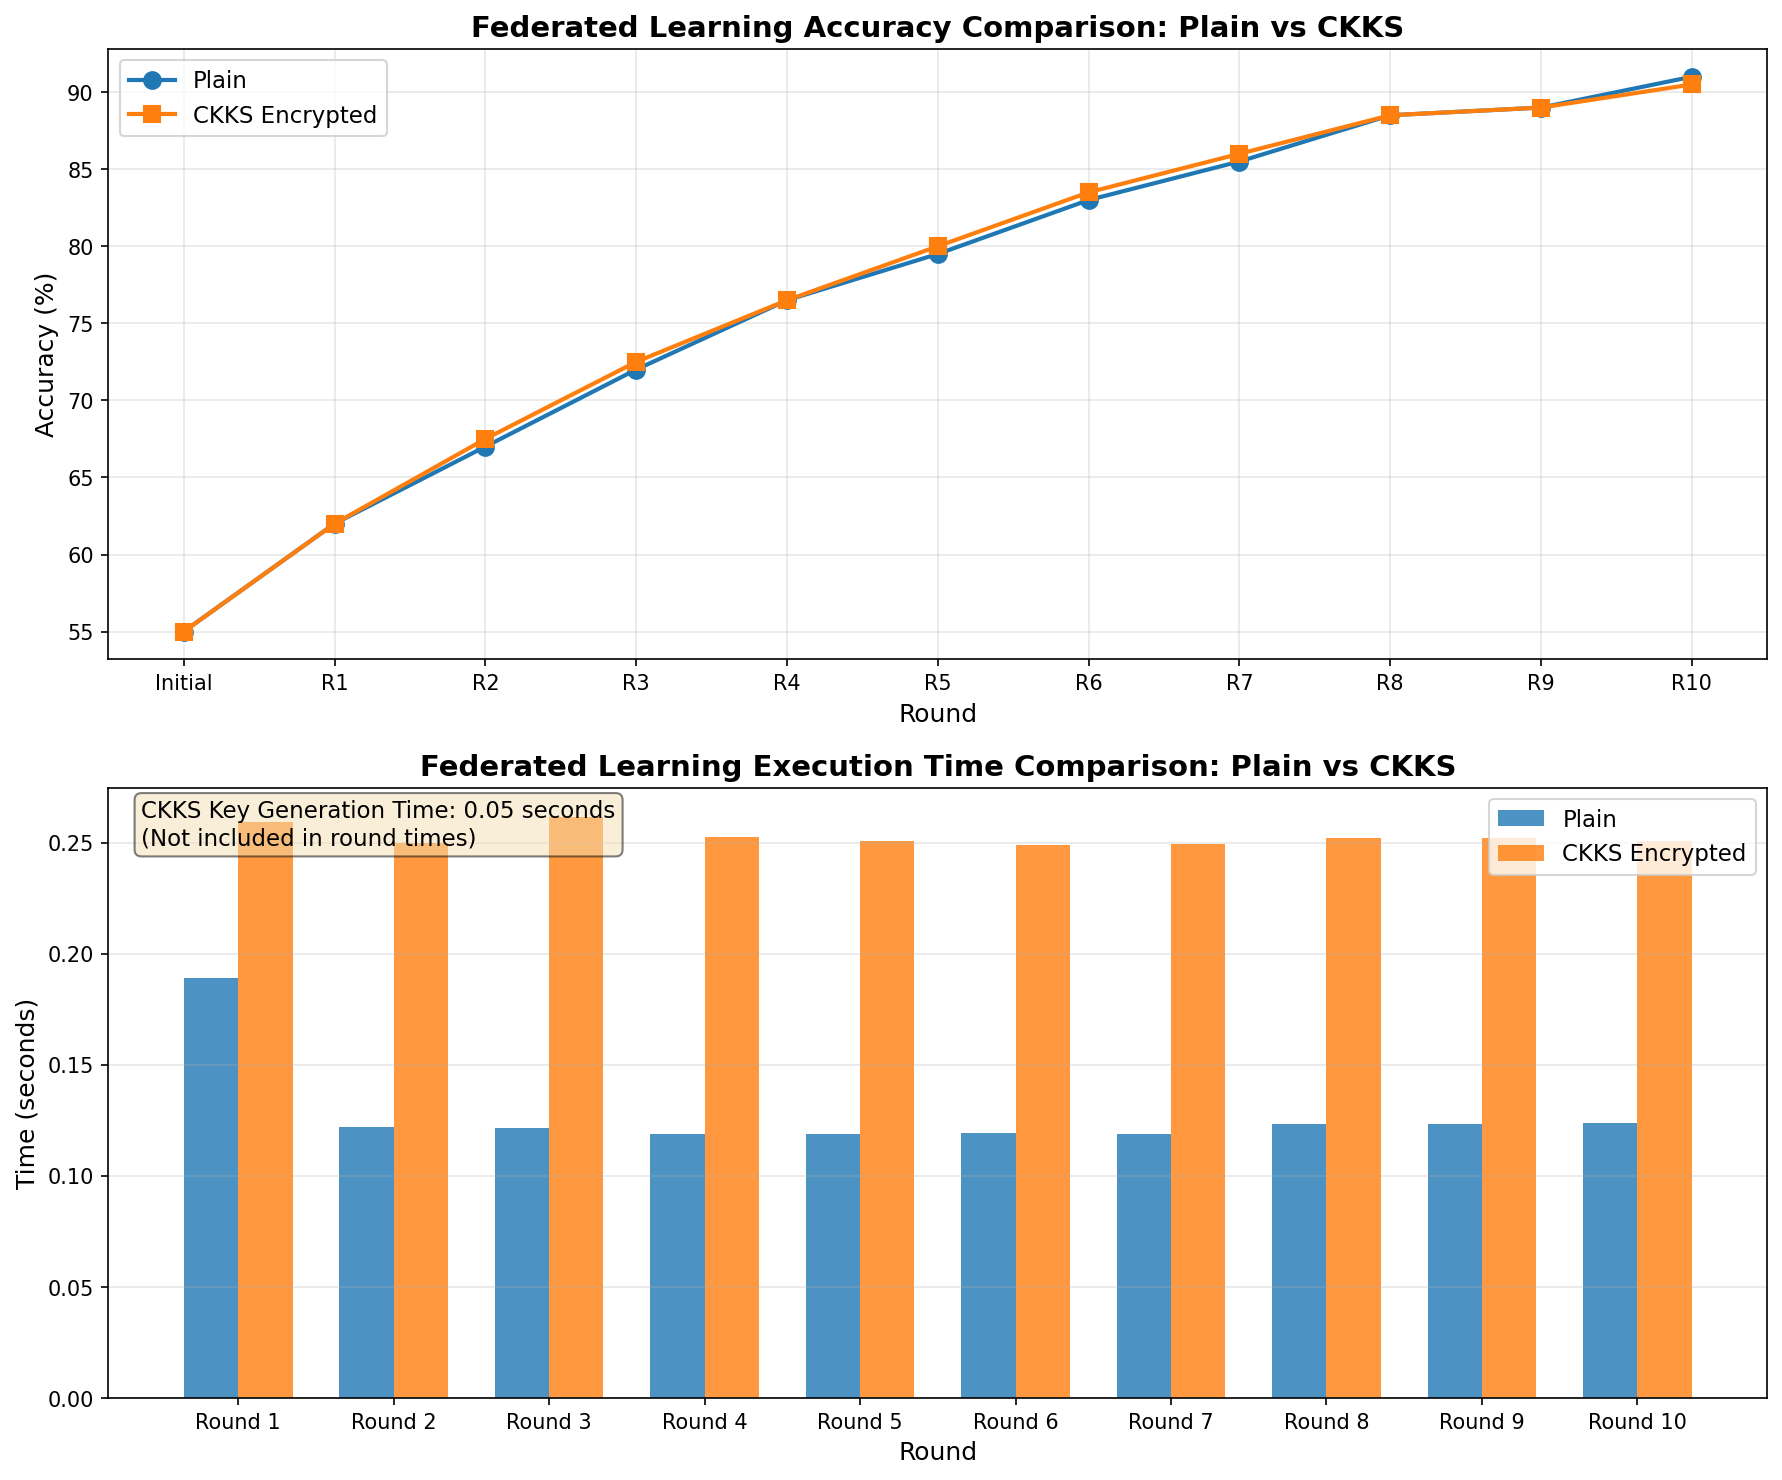
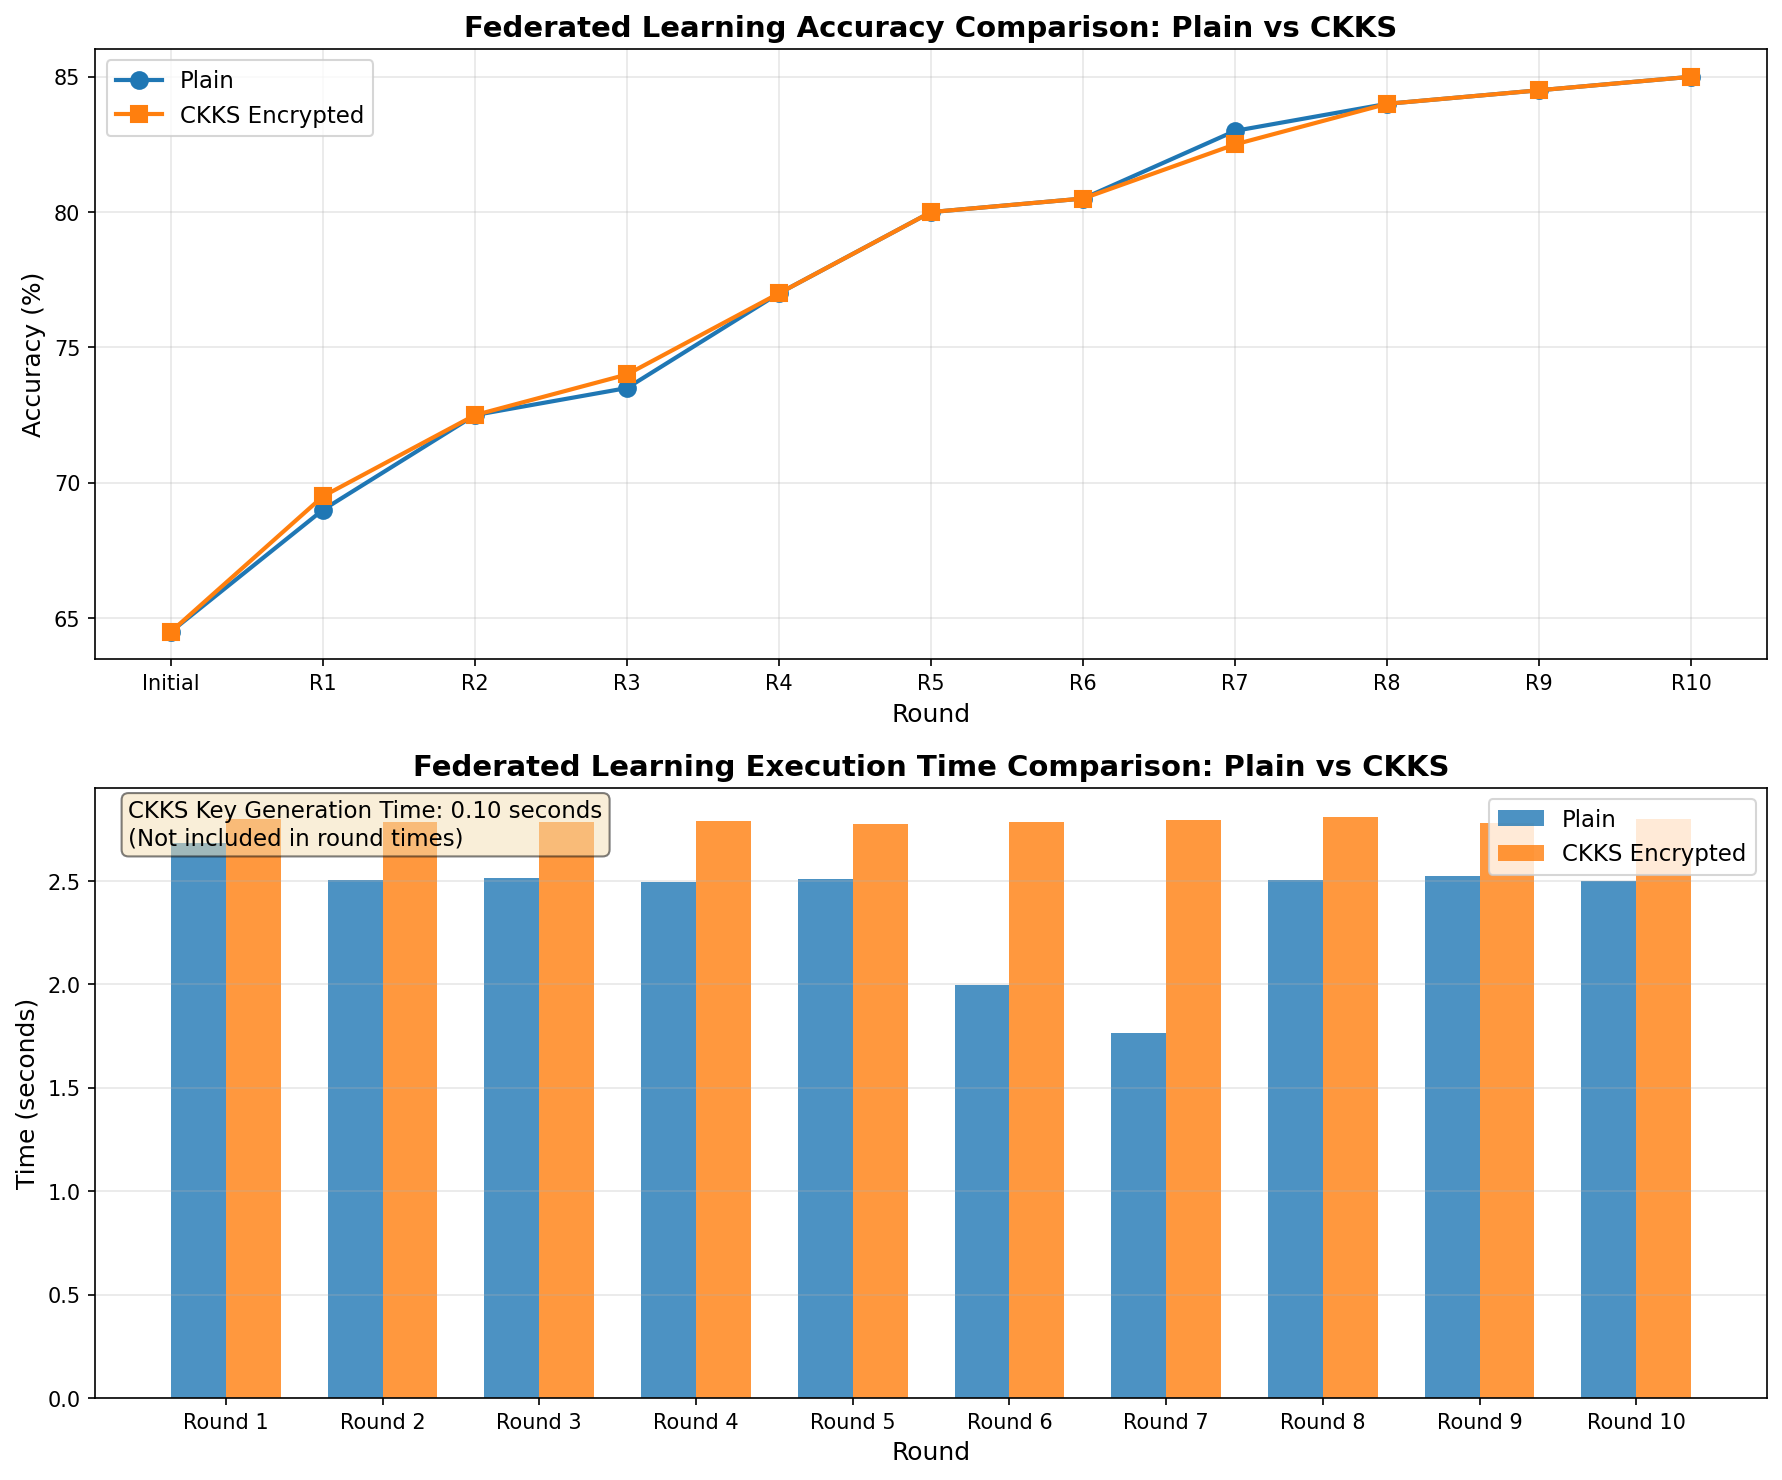
variable input size

diff --git a/federated.py b/federated.py
@@ -22,6 +22,7 @@ from math import log2, ceil
 import matplotlib.pyplot as plt
 import matplotlib
 matplotlib.use('Agg')  # GUIなし環境対応
+import argparse
 
 # [OPENFHE-CKKS] 追加
 from openfhe import *
@@ -198,10 +199,19 @@ class NeuralNetwork(nn.Module):
     def __init__(self, input_size=3, output_size=2):
         super(NeuralNetwork, self).__init__()
         self.fc = nn.Linear(input_size, output_size)
+        # 初期重みを固定値で設定（次元に対応）
         with torch.no_grad():
-            self.fc.weight.data = torch.tensor([[0.1, 0.2, 0.3],
-                                                [0.4, 0.5, 0.6]], dtype=torch.float32)
-            self.fc.bias.data = torch.tensor([0.1, 0.2], dtype=torch.float32)
+            # 重み行列: output_size x input_size
+            weight_init = torch.zeros(output_size, input_size, dtype=torch.float32)
+            for i in range(output_size):
+                for j in range(input_size):
+                    weight_init[i, j] = 0.1 * (i * input_size + j + 1)
+            self.fc.weight.data = weight_init
+            # バイアス: output_size
+            bias_init = torch.zeros(output_size, dtype=torch.float32)
+            for i in range(output_size):
+                bias_init[i] = 0.1 * (i + 1)
+            self.fc.bias.data = bias_init
 
     def forward(self, x):
         return self.fc(x)
@@ -284,15 +294,25 @@ class LocalTrainer:
         self.model.load_state_dict(weights)
 
 
-def create_simple_data(batch_size, num_samples=100, seed=None):
+def create_simple_data(batch_size, num_samples=100, input_size=3, seed=None):
     """
     線形分離可能な簡易データを生成（説明・検証用）
-    ルール: x1 + x2 - x3 > 0 なら 1、それ以外は 0
+    ルール: x_1 - x_2 + x_3 - x_4 + ... ± x_n > 0 なら 1、それ以外は 0
+    奇数インデックスは+、偶数インデックスは-の符号を持つ
     """
     if seed is not None:
         np.random.seed(seed)
-    features = np.random.randn(num_samples, 3).astype(np.float32)
-    labels = ((features[:, 0] + features[:, 1] - features[:, 2]) > 0).astype(np.int64)
+    features = np.random.randn(num_samples, input_size).astype(np.float32)
+
+    # 交互に符号を変えて和を計算: x_1 - x_2 + x_3 - x_4 + ...
+    weighted_sum = np.zeros(num_samples, dtype=np.float32)
+    for i in range(input_size):
+        if i % 2 == 0:  # 偶数インデックス(0,2,4,...) は +
+            weighted_sum += features[:, i]
+        else:  # 奇数インデックス(1,3,5,...) は -
+            weighted_sum -= features[:, i]
+
+    labels = (weighted_sum > 0).astype(np.int64)
     dataset = CustomDataset(features, labels)
     return DataLoader(dataset, batch_size=batch_size, shuffle=True)
 
@@ -304,12 +324,12 @@ class Client:
       - 学習前後の精度を出力
       - 学習後の重みをサーバへ返す
     """
-    def __init__(self, client_id, data_seed=None):
+    def __init__(self, client_id, input_size=3, output_size=2, data_seed=None):
         self.client_id = client_id
         self.device = torch.device('cuda' if torch.cuda.is_available() else 'cpu')
-        self.model = NeuralNetwork(input_size=3, output_size=2).to(self.device)
-        self.train_loader = create_simple_data(batch_size=16, num_samples=100, seed=data_seed)
-        self.test_loader = create_simple_data(batch_size=16, num_samples=50, seed=data_seed+1000 if data_seed else None)
+        self.model = NeuralNetwork(input_size=input_size, output_size=output_size).to(self.device)
+        self.train_loader = create_simple_data(batch_size=16, num_samples=100, input_size=input_size, seed=data_seed)
+        self.test_loader = create_simple_data(batch_size=16, num_samples=50, input_size=input_size, seed=data_seed+1000 if data_seed else None)
         self.optimizer = optim.SGD(self.model.parameters(), lr=0.01)  # 低LRで安定化
         self.criterion = nn.CrossEntropyLoss()
         self.trainer = LocalTrainer(self.model, self.train_loader, self.optimizer, self.criterion, self.device)
@@ -341,10 +361,10 @@ class FHEServer:
       - グローバルモデルの保持と評価
       - CKKS 集約（FHEModelAggregator: CKKS 版）を呼び出し
     """
-    def __init__(self, num_clients=5):
+    def __init__(self, num_clients=5, input_size=3, output_size=2):
         self.num_clients = num_clients
         self.device = torch.device('cuda' if torch.cuda.is_available() else 'cpu')
-        self.global_model = NeuralNetwork(input_size=3, output_size=2).to(self.device)
+        self.global_model = NeuralNetwork(input_size=input_size, output_size=output_size).to(self.device)
 
         # [REPLACED WITH OPENFHE-CKKS] ここで CKKS 版の Aggregator を使用
         self.fhe_aggregator = FHEModelAggregator(
@@ -354,7 +374,7 @@ class FHEServer:
             max_value=50        # 同上
         )
 
-        self.test_loader = create_simple_data(batch_size=32, num_samples=200, seed=9999)
+        self.test_loader = create_simple_data(batch_size=32, num_samples=200, input_size=input_size, seed=9999)
         self.criterion = nn.CrossEntropyLoss()
 
     def evaluate_global_model(self):
@@ -402,11 +422,11 @@ class PlainServer:
       - グローバルモデルの保持と評価
       - 平文でのモデル集約（単純平均）
     """
-    def __init__(self, num_clients=5):
+    def __init__(self, num_clients=5, input_size=3, output_size=2):
         self.num_clients = num_clients
         self.device = torch.device('cuda' if torch.cuda.is_available() else 'cpu')
-        self.global_model = NeuralNetwork(input_size=3, output_size=2).to(self.device)
-        self.test_loader = create_simple_data(batch_size=32, num_samples=200, seed=9999)
+        self.global_model = NeuralNetwork(input_size=input_size, output_size=output_size).to(self.device)
+        self.test_loader = create_simple_data(batch_size=32, num_samples=200, input_size=input_size, seed=9999)
         self.criterion = nn.CrossEntropyLoss()
 
     def evaluate_global_model(self):
@@ -454,12 +474,13 @@ class PlainServer:
 # =========================================================
 # 比較実験関数
 # =========================================================
-def run_federated_learning_comparison(num_clients=10, num_rounds=10):
+def run_federated_learning_comparison(num_clients=10, num_rounds=10, input_size=3, output_size=2):
     """
     平文とCKKS暗号化の連合学習を実行し、精度と時間を比較
     """
     print("="*80)
     print("🔬 FEDERATED LEARNING COMPARISON: Plain vs CKKS Encrypted")
+    print(f"   Input Size: {input_size}, Output Size: {output_size}")
     print("="*80)
 
     # 結果格納用
@@ -475,8 +496,8 @@ def run_federated_learning_comparison(num_clients=10, num_rounds=10):
     print("📊 PLAIN FEDERATED LEARNING")
     print("="*80)
 
-    plain_server = PlainServer(num_clients=num_clients)
-    plain_clients = [Client(client_id=i+1, data_seed=i*100) for i in range(num_clients)]
+    plain_server = PlainServer(num_clients=num_clients, input_size=input_size, output_size=output_size)
+    plain_clients = [Client(client_id=i+1, input_size=input_size, output_size=output_size, data_seed=i*100) for i in range(num_clients)]
 
     print("\nInitial Global Model Evaluation (Plain):")
     initial_accuracy_plain, _ = plain_server.evaluate_global_model()
@@ -520,14 +541,14 @@ def run_federated_learning_comparison(num_clients=10, num_rounds=10):
 
     # 鍵生成時間を計測
     key_gen_start = time.time()
-    ckks_server = FHEServer(num_clients=num_clients)
+    ckks_server = FHEServer(num_clients=num_clients, input_size=input_size, output_size=output_size)
     key_gen_end = time.time()
     key_gen_time = key_gen_end - key_gen_start
     results['ckks']['key_gen_time'] = key_gen_time
 
     print(f"🔑 Key generation time: {key_gen_time:.2f} seconds")
 
-    ckks_clients = [Client(client_id=i+1, data_seed=i*100) for i in range(num_clients)]
+    ckks_clients = [Client(client_id=i+1, input_size=input_size, output_size=output_size, data_seed=i*100) for i in range(num_clients)]
 
     print("\nInitial Global Model Evaluation (CKKS):")
     initial_accuracy_ckks, _ = ckks_server.evaluate_global_model()
@@ -684,17 +705,46 @@ def main():
     """
     比較実験のメイン関数
     """
-    num_clients = 10
-    num_rounds = 10
+    # コマンドライン引数のパース
+    parser = argparse.ArgumentParser(
+        description='Federated Learning Comparison: Plain vs CKKS Encrypted',
+        formatter_class=argparse.ArgumentDefaultsHelpFormatter
+    )
+    parser.add_argument('--input-size', type=int, default=3,
+                        help='Number of input features (dimension of input data)')
+    parser.add_argument('--output-size', type=int, default=2,
+                        help='Number of output classes')
+    parser.add_argument('--num-clients', type=int, default=10,
+                        help='Number of clients participating in federated learning')
+    parser.add_argument('--num-rounds', type=int, default=10,
+                        help='Number of federated learning rounds')
+
+    args = parser.parse_args()
+
+    # パラメータ表示
+    print("\n" + "="*80)
+    print("📋 EXPERIMENT CONFIGURATION")
+    print("="*80)
+    print(f"  Input Size:    {args.input_size}")
+    print(f"  Output Size:   {args.output_size}")
+    print(f"  Num Clients:   {args.num_clients}")
+    print(f"  Num Rounds:    {args.num_rounds}")
+    print(f"  Data Rule:     x_1 - x_2 + x_3 - x_4 + ... ± x_{args.input_size} > 0")
+    print("="*80 + "\n")
 
     # 比較実験を実行
-    results = run_federated_learning_comparison(num_clients=num_clients, num_rounds=num_rounds)
+    results = run_federated_learning_comparison(
+        num_clients=args.num_clients,
+        num_rounds=args.num_rounds,
+        input_size=args.input_size,
+        output_size=args.output_size
+    )
 
     # 結果のサマリーを出力
-    print_comparison_summary(results, num_rounds)
+    print_comparison_summary(results, args.num_rounds)
 
     # グラフを作成
-    plot_comparison_results(results, num_rounds, num_clients)
+    plot_comparison_results(results, args.num_rounds, args.num_clients)
 
     print("\n✅ All comparisons completed!")
 
